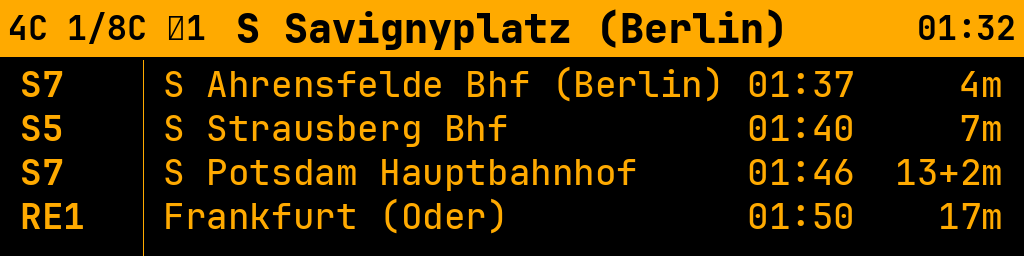
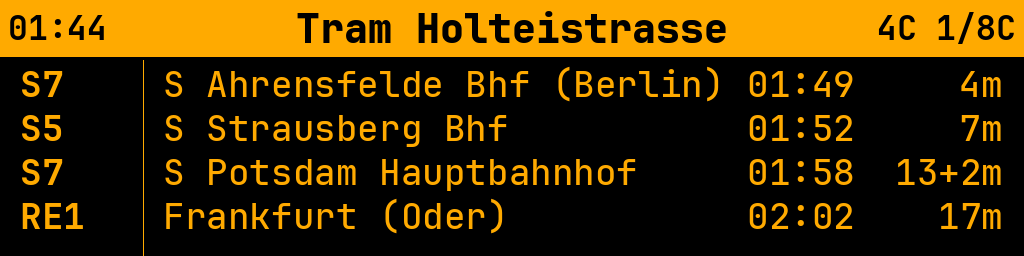
feat: enhance weather display and improve bus line prefixing

diff --git a/src/infodisplay/renderer.py b/src/infodisplay/renderer.py
@@ -125,6 +125,7 @@ class DepartureRenderer:
         station_name: str,
         walking_minutes: int = 5,
         weather: WeatherData | None = None,
+        weather_page: int = 0,
     ) -> tuple[Image.Image, bool]:
         """Render a departure board image.
 
@@ -141,7 +142,7 @@ class DepartureRenderer:
         draw = ImageDraw.Draw(img)
 
         # Draw station name at the top
-        self._draw_station_name(draw, station_name, weather)
+        self._draw_station_name(draw, station_name, weather, weather_page)
 
         # Vertical separator between Linie and Ziel columns
         sep_x = int(self.width * 0.14)
@@ -170,6 +171,7 @@ class DepartureRenderer:
         draw: ImageDraw.ImageDraw,
         station_name: str,
         weather: WeatherData | None = None,
+        weather_page: int = 0,
     ) -> None:
         """Draw the station name centered on a full-width amber block, with clock on the right and weather on the left."""
         draw.rectangle(
@@ -179,31 +181,35 @@ class DepartureRenderer:
         cy = self.station_name_height // 2
         margin = max(2, round(4 * self.scale))
 
-        # Weather info (left-aligned)
-        if weather is not None:
-            weather_str = (
-                f"{weather.current_temp:.0f}C"
-                f" {weather.daily_low:.0f}/{weather.daily_high:.0f}C"
-                f" {weather.precip_summary}"
-            )
-            draw.text(
-                (margin, cy),
-                weather_str,
-                fill=BLACK,
-                font=self.font_info,
-                anchor="lm",
-            )
-
-        # Current time (right-aligned)
+        # Current time (left-aligned)
         now = datetime.now()
         time_str = now.strftime("%H:%M")
         draw.text(
-            (self.width - margin, cy),
+            (margin, cy),
             time_str,
             fill=BLACK,
             font=self.font_info,
-            anchor="rm",
+            anchor="lm",
         )
+
+        # Weather info (right-aligned), alternates between temp and precip per station rotation
+        if weather is not None:
+            temp_str = (
+                f"{weather.current_temp:.0f}C"
+                f" {weather.daily_low:.0f}/{weather.daily_high:.0f}C"
+            )
+            precip_str = weather.precip_summary
+            if precip_str and weather_page % 2 == 1:
+                weather_str = precip_str
+            else:
+                weather_str = temp_str
+            draw.text(
+                (self.width - margin, cy),
+                weather_str,
+                fill=BLACK,
+                font=self.font_info,
+                anchor="rm",
+            )
         # Station name (centered)
         truncate_margin = max(10, round(20 * self.scale))
         text = self._truncate_text(
@@ -572,8 +578,11 @@ def run_render_test(config=None) -> str:
         )
     else:
         renderer = DepartureRenderer()
+    station_name = "S Savignyplatz (Berlin)"
+    if config is not None and config.stations:
+        station_name = config.stations[0].name or f"Station {config.stations[0].id}"
     img, _ = renderer.render(
-        departures, "S Savignyplatz (Berlin)", weather=mock_weather
+        departures, station_name, weather=mock_weather
     )
 
     mode = config.display.mode if config is not None else "pygame"

diff --git a/src/infodisplay/models.py b/src/infodisplay/models.py
@@ -55,8 +55,8 @@ def parse_departure(raw: dict) -> Departure:
     # Prefix tram lines without "M" with "M" for consistency with MetroTram branding
     if line_product == "tram" and line_name and not line_name.startswith("M"):
         line_name = f"M{line_name}"
-    # Prefix bus lines with "B" (skip night buses which already have "N")
-    if line_product == "bus" and line_name and not line_name.startswith(("B", "N")):
+    # Prefix bus lines with "B" (skip night buses "N" and MetroBus "M")
+    if line_product == "bus" and line_name and not line_name.startswith(("B", "N", "M")):
         line_name = f"B{line_name}"
 
     return Departure(

diff --git a/src/infodisplay/app.py b/src/infodisplay/app.py
@@ -171,7 +171,10 @@ class InfoDisplayApp:
 
                 scrolling_done = True
                 if visible:
-                    img, scrolling_done = self.renderer.render(visible, ctx.station_name, walk, self.weather)
+                    img, scrolling_done = self.renderer.render(
+                        visible, ctx.station_name, walk, self.weather,
+                        weather_page=self.active_station_index,
+                    )
                 elif ctx.last_fetch > 0:
                     img = render_error(
                         "Keine Abfahrten",

diff --git a/src/infodisplay/weather.py b/src/infodisplay/weather.py
@@ -40,7 +40,7 @@ class WeatherData:
         total = self.precip_total
         if total == 0:
             return ""
-        return f"\u2602{round(total)}"
+        return f"{round(total)}mm"
 
 
 def fetch_weather(lat: float, lon: float) -> WeatherData:
